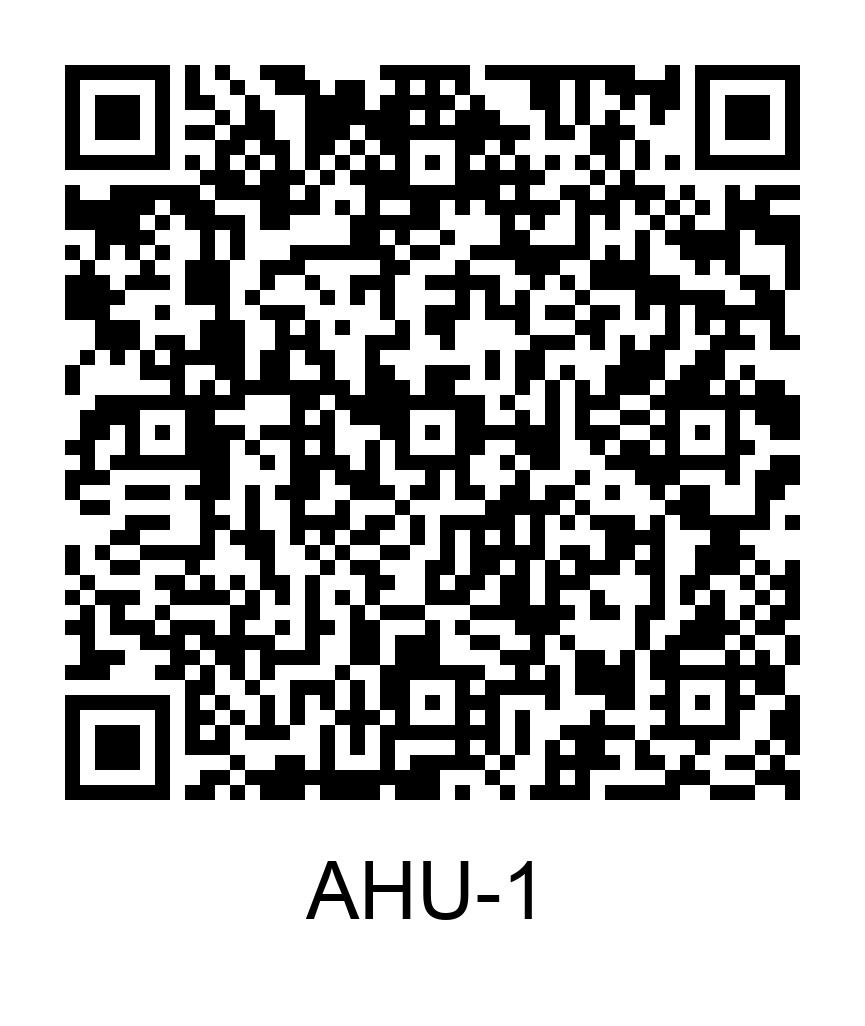
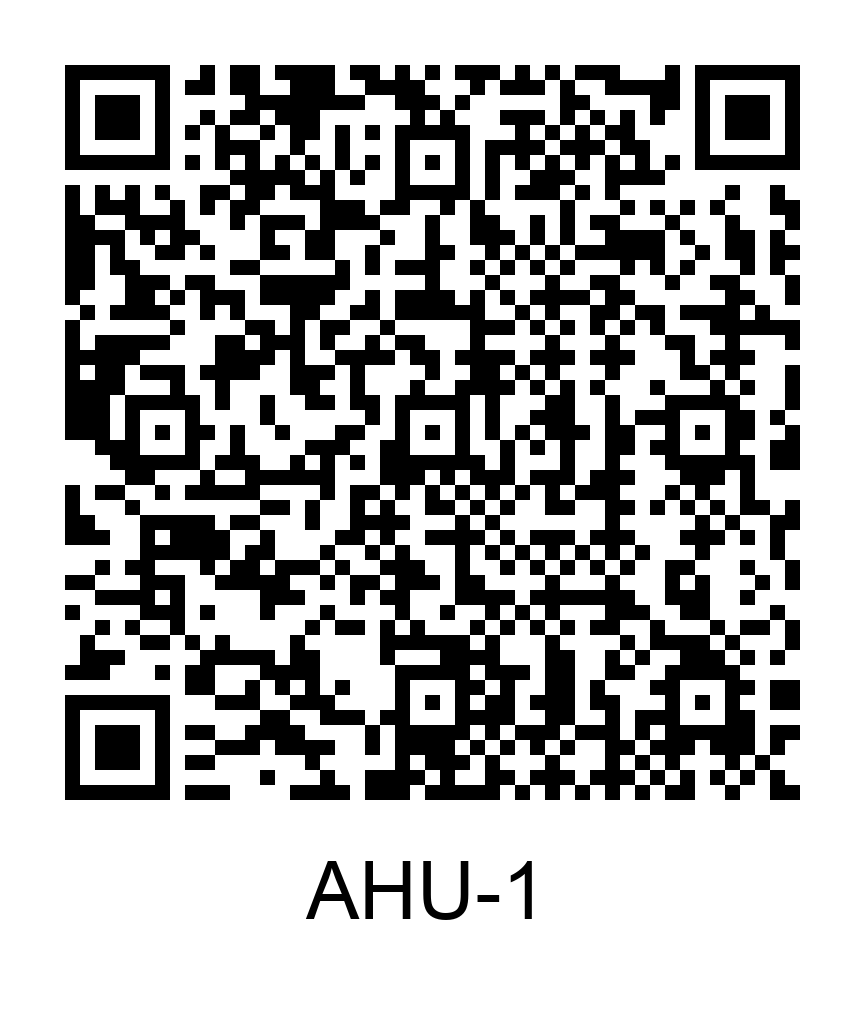
fix json format

diff --git a/src/code/inputType/gsheet/input2qrcode.py b/src/code/inputType/gsheet/input2qrcode.py
@@ -60,7 +60,7 @@ class GSheet2QRCODE:
         data = Template("""{
         "asset": { 
             "guid": "ifc://$asset_guid",
-            "name": $asset_name
+            "name": "$asset_name"
             }
         }""")
 

diff --git a/src/code/inputType/csv/input2qrcode.py b/src/code/inputType/csv/input2qrcode.py
@@ -52,7 +52,7 @@ class CSV2QRCODE:
         data = Template("""{
         "asset": { 
             "guid": "uuid://$asset_guid",
-            "name": $asset_name
+            "name": "$asset_name"
             }
         }""")
 

diff --git a/src/code/inputType/ifc/input2qrcode.py b/src/code/inputType/ifc/input2qrcode.py
@@ -46,7 +46,7 @@ class IFCt2QRCODE:
         data = Template("""{
         "asset": {
             "guid": "ifc://$asset_guid",
-            "name": $asset_name
+            "name": "$asset_name"
             }
         }""")
 
